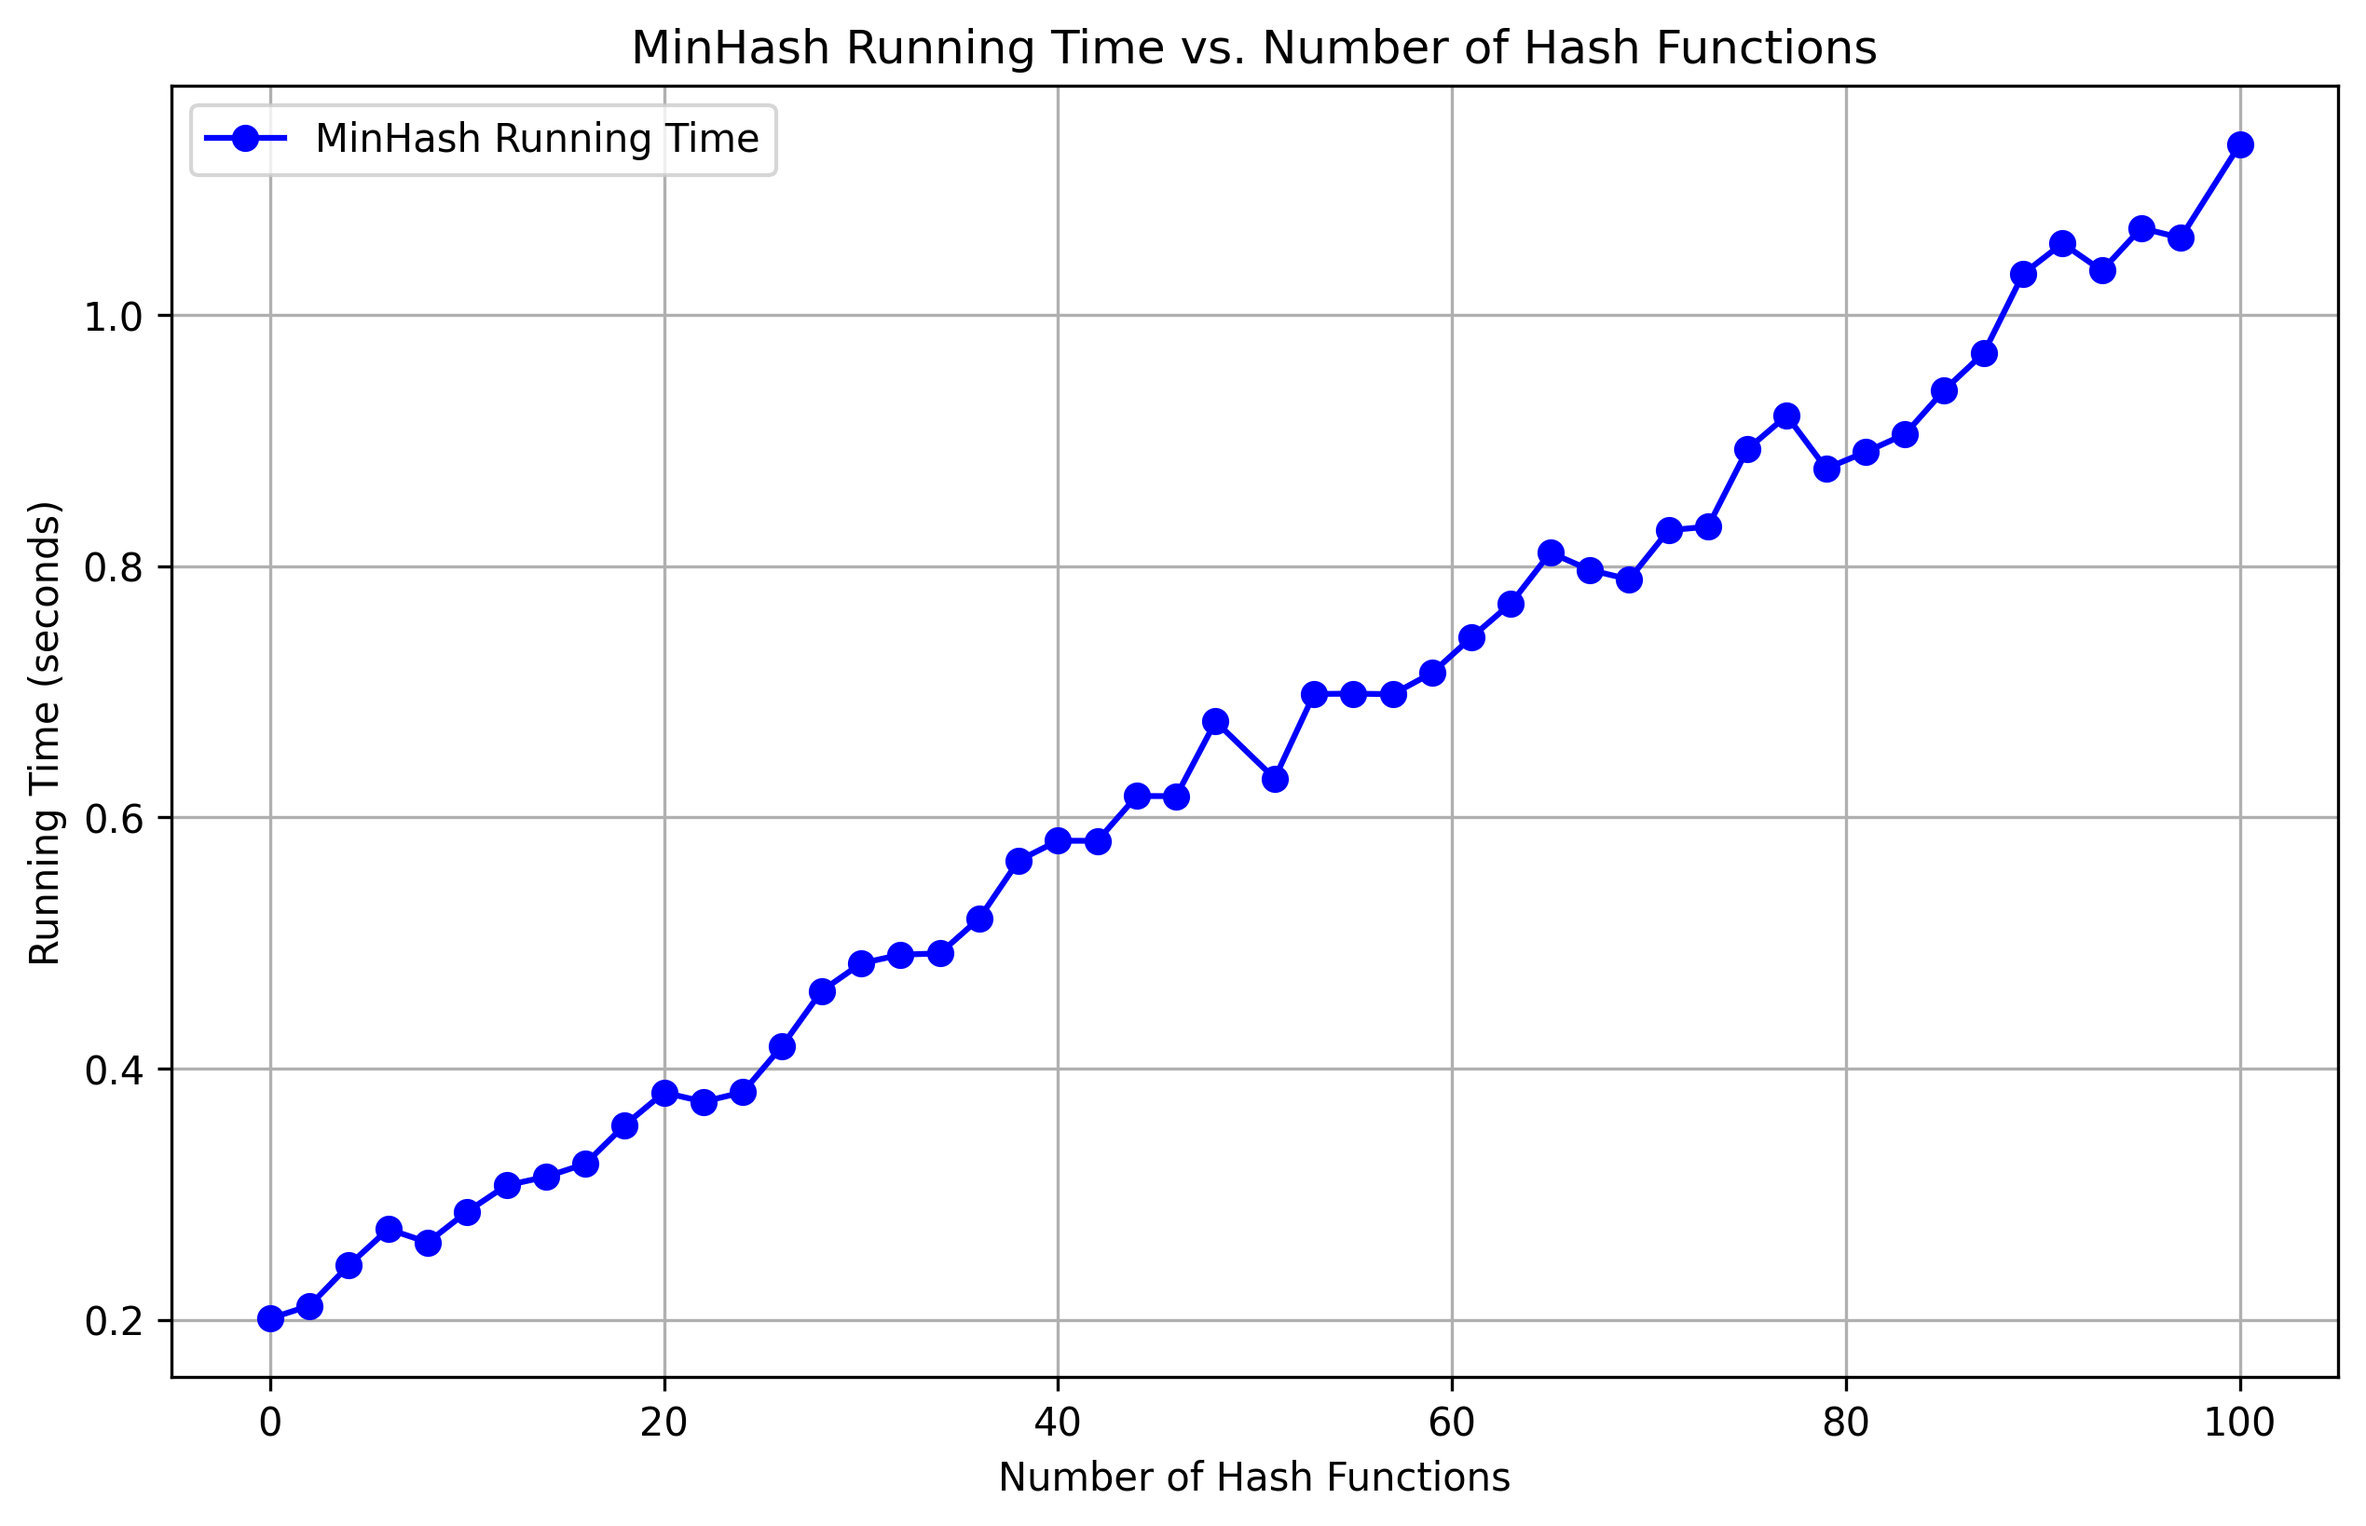
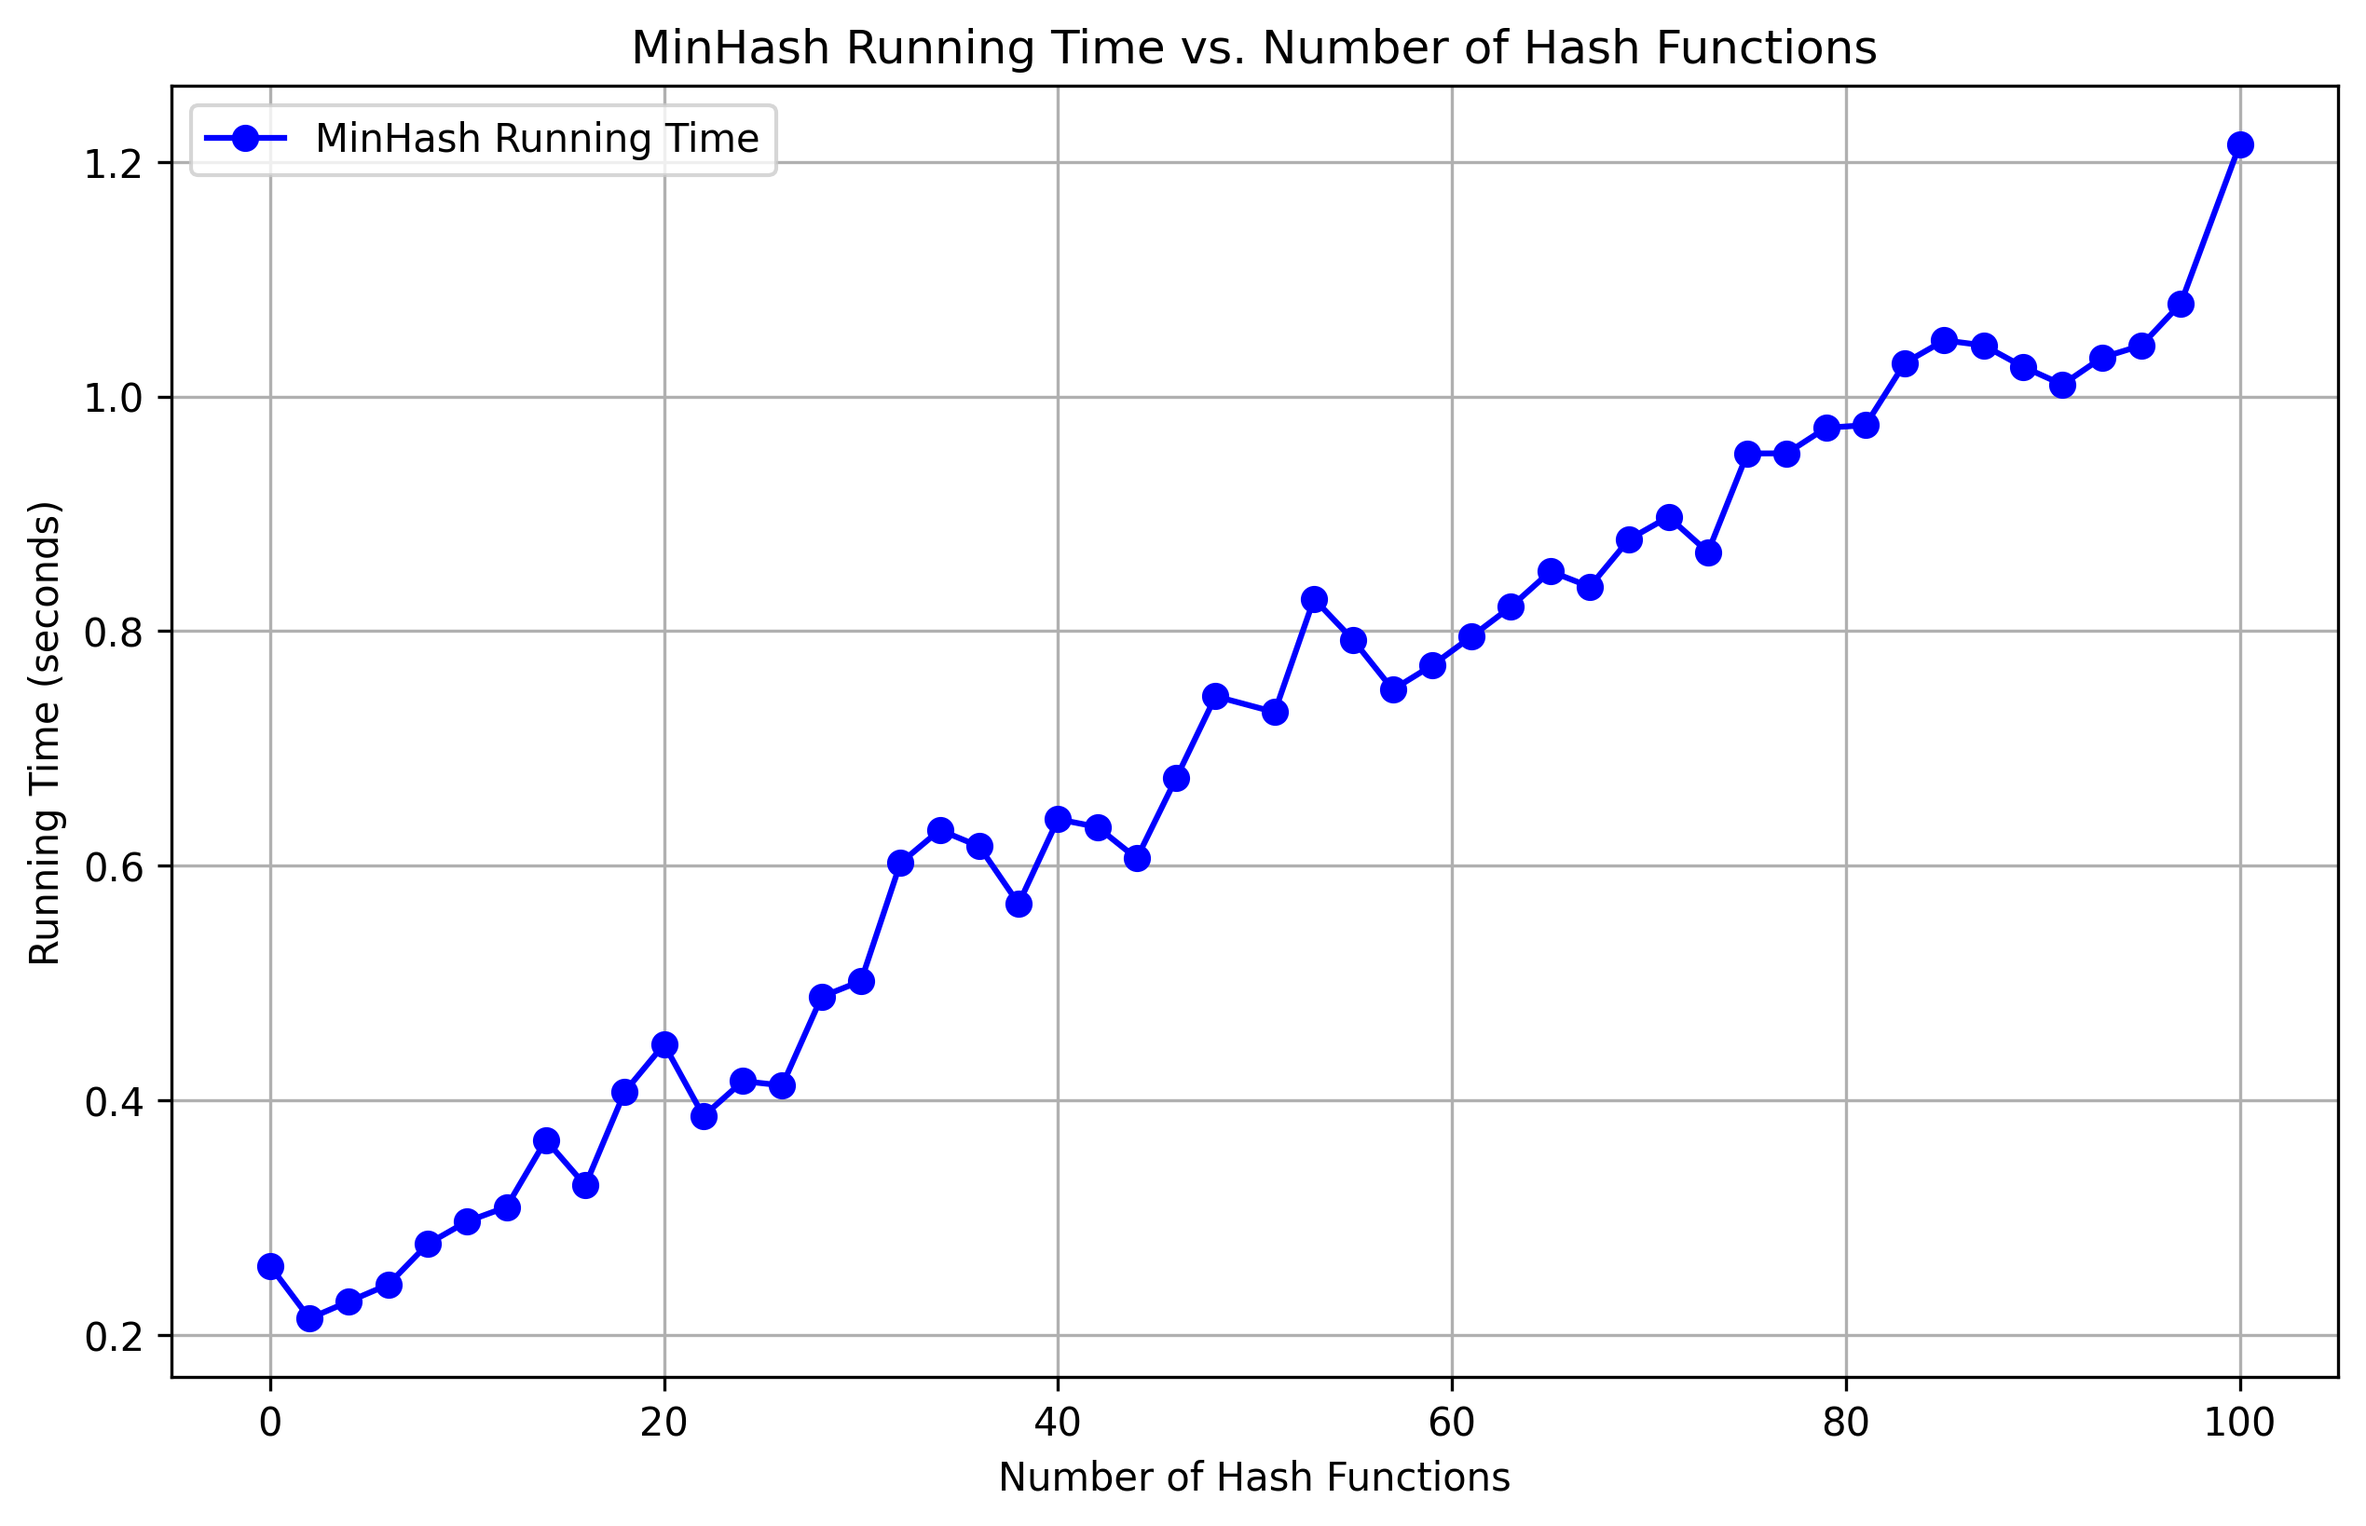
update

diff --git a/Lab1-add-LSH/main.py b/Lab1-add-LSH/main.py
@@ -173,13 +173,15 @@ def main():
     corpus = data(FILE_PATH)
     # 采样
     print('............................................................')
-    samples = sample(corpus, n_samples)
+    #samples = sample(corpus, n_samples)
     # Naive 方法
     print('............................................................')
-    naive_result = naiveMethod(samples, c)
+    #naive_result = naiveMethod(corpus, c)
+    #naive_result = naiveMethod(samples, c)
     # 数据预处理
     print('............................................................')
-    processed, n_elements = preProcess(samples)
+    #processed, n_elements = preProcess(samples)
+    processed, n_elements = preProcess(corpus)
     # MinHash 方法
     print('............................................................')
     minHashMethod(processed, n_elements, b, r)
